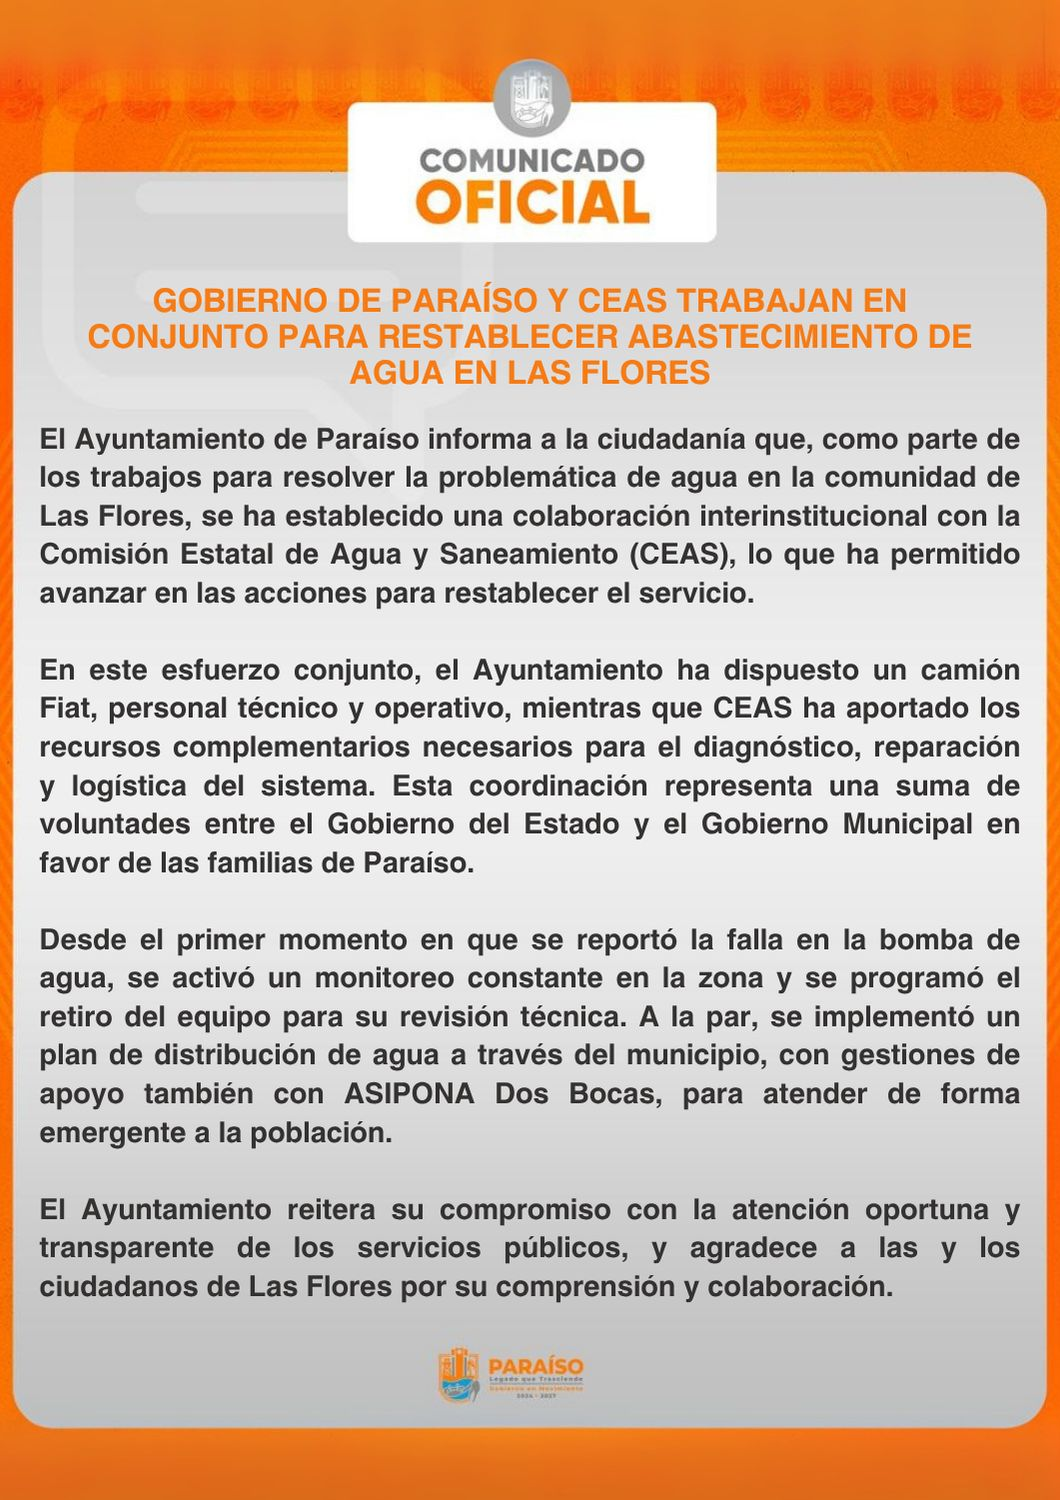
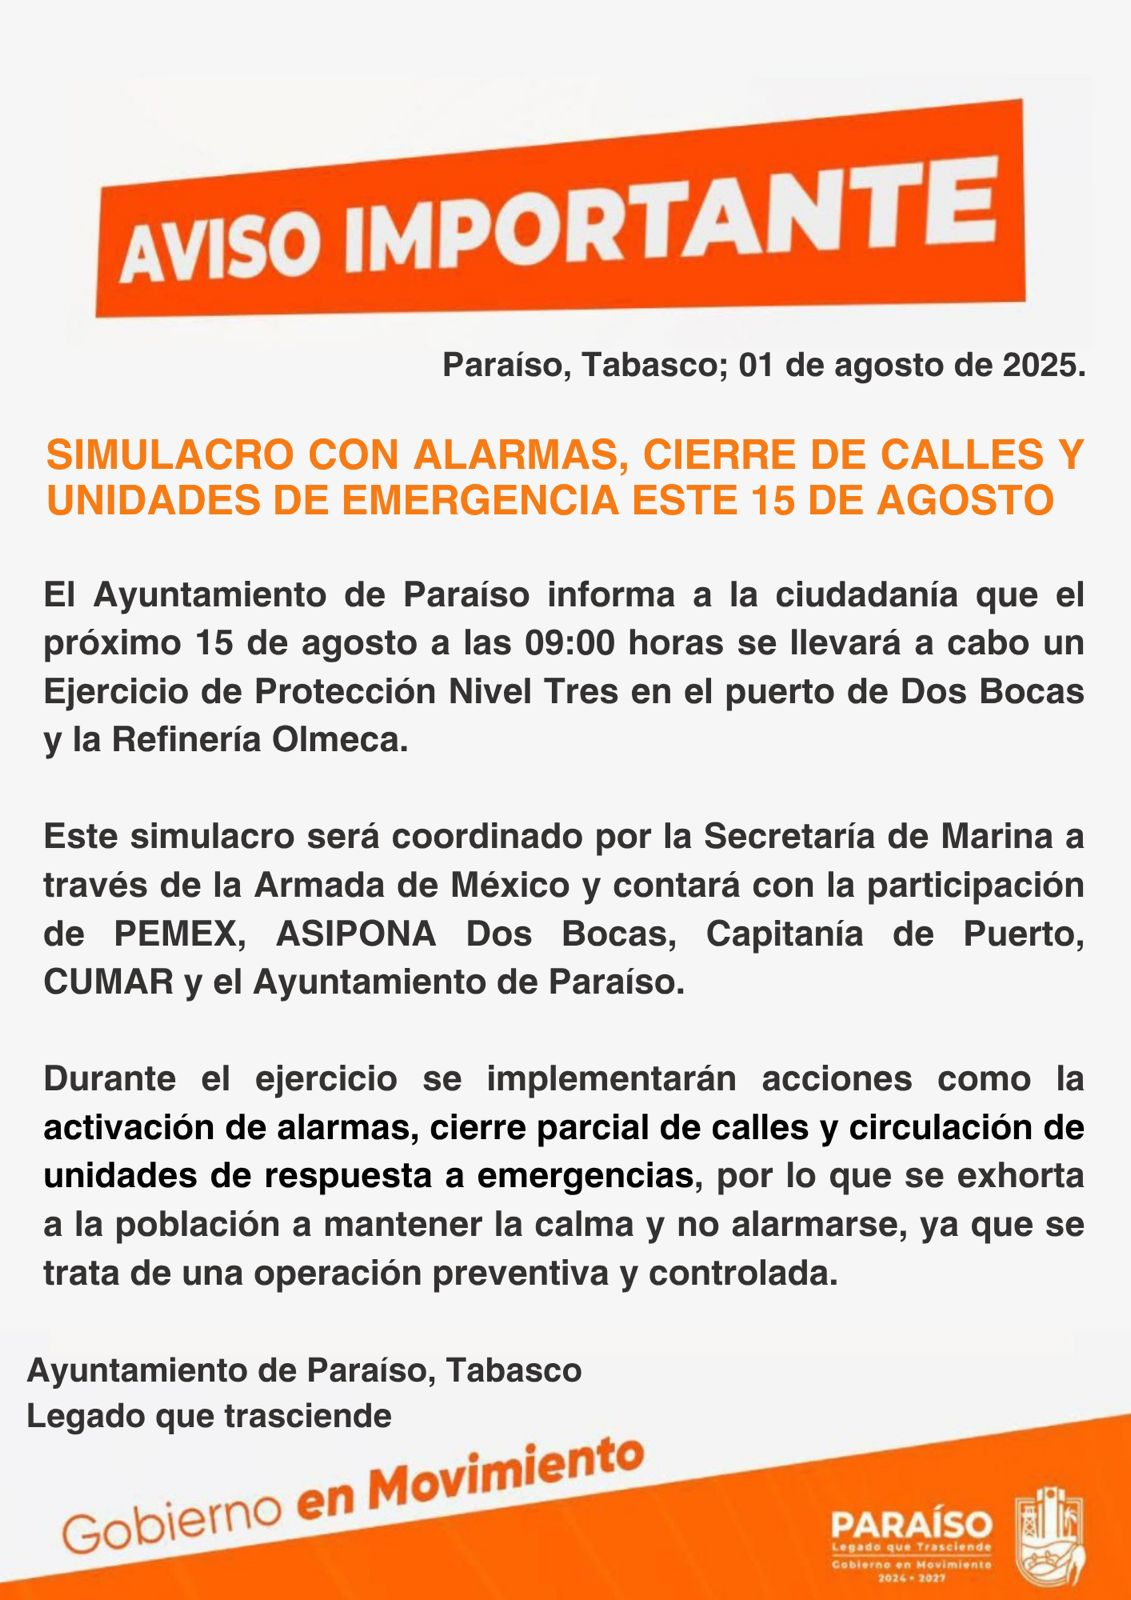
Nuevo anuncio y video implementado

diff --git a/src/pages/Inicio/components/SwiperInicio.tsx b/src/pages/Inicio/components/SwiperInicio.tsx
@@ -22,6 +22,16 @@ export const SwiperInicio = () => {
         },
         {
             type: "video",
+            src: "https://gobparaiso.blob.core.windows.net/home/Prevencion_Bomberos.mp4",
+            alt: "fuego",
+            title: "CAMPAÑA DE PREVENCIÓN DE INCENDIOS",
+            subtitle: "TRABAJANDO PARA PROTEGER PARAÍSO",
+            description: "¡Protege tu hogar y tu comunidad!",
+            buttonText: "Ver más",
+            buttonLink: "#",
+        },
+        {
+            type: "video",
             src: "https://youtu.be/04F4xlWSFh0?si=qR-fQQtuow1lX2tG",
             alt: "copa",
             title: "COPA PARAISO 2025",
@@ -53,17 +63,25 @@ export const SwiperInicio = () => {
     ];
 
     const [isModalOpen, setIsModalOpen] = useState(false);
+    const [isModalOpenFuego, setIsModalOpenFuego] = useState(false);
 
-    const showModal = () => {
-        setIsModalOpen(true);
+    const showModal = (params: string) => {
+        if (params === "playa") {
+            setIsModalOpen(true);
+        }
+        else {
+            setIsModalOpenFuego(true);
+        }
     };
 
     const handleOk = () => {
         setIsModalOpen(false);
+        setIsModalOpenFuego(false);
     };
 
     const handleCancel = () => {
         setIsModalOpen(false);
+        setIsModalOpenFuego(false);
     };
     return (
         <div style={{ width: "100%", height: "35rem" }}>
@@ -101,6 +119,17 @@ export const SwiperInicio = () => {
                     <p>
                         La administración municipal invita a las y los tabasqueños a disfrutar de este espacio diseñado para el descanso, la convivencia y el desarrollo turístico del estado.
                     </p>
+                </Modal>
+                <Modal
+                    title="CAMPAÑA DE PREVENCIÓN DE INCENDIOS"
+                    closable={{ 'aria-label': 'Custom Close Button' }}
+                    open={isModalOpenFuego}
+                    onOk={handleOk}
+                    onCancel={handleCancel}
+                    footer={false}
+                    destroyOnClose={true}
+                >
+                    <video src="https://gobparaiso.blob.core.windows.net/home/Prevencion_Bomberos.mp4" controls style={{ width: "100%" }} />
                 </Modal>
             </ConfigProvider>
             <Swiper
@@ -144,7 +173,7 @@ export const SwiperInicio = () => {
                                         {slide.buttonText}
                                     </a>
                                 ) : (
-                                    <button className="btn-slide" onClick={showModal} style={{ border: 'none', cursor: "pointer", fontWeight: 'bold', fontSize: "1rem" }}>{slide.buttonText}</button>
+                                    <button className="btn-slide" onClick={() => showModal(slide.alt)} style={{ border: 'none', cursor: "pointer", fontWeight: 'bold', fontSize: "1rem" }}>{slide.buttonText}</button>
                                 )}
                             </div>
                         </div>

diff --git a/src/pages/Inicio/components/ReleaseComponent.tsx b/src/pages/Inicio/components/ReleaseComponent.tsx
@@ -2,7 +2,7 @@ import { useState } from "react";
 import { Modal, Image, ConfigProvider, Carousel } from 'antd';
 
 export const ReleaseComponent = () => {
-    const [isModalOpen, setIsModalOpen] = useState(false);
+    const [isModalOpen, setIsModalOpen] = useState(true);
 
     const handleOk = () => {
         setIsModalOpen(false);
